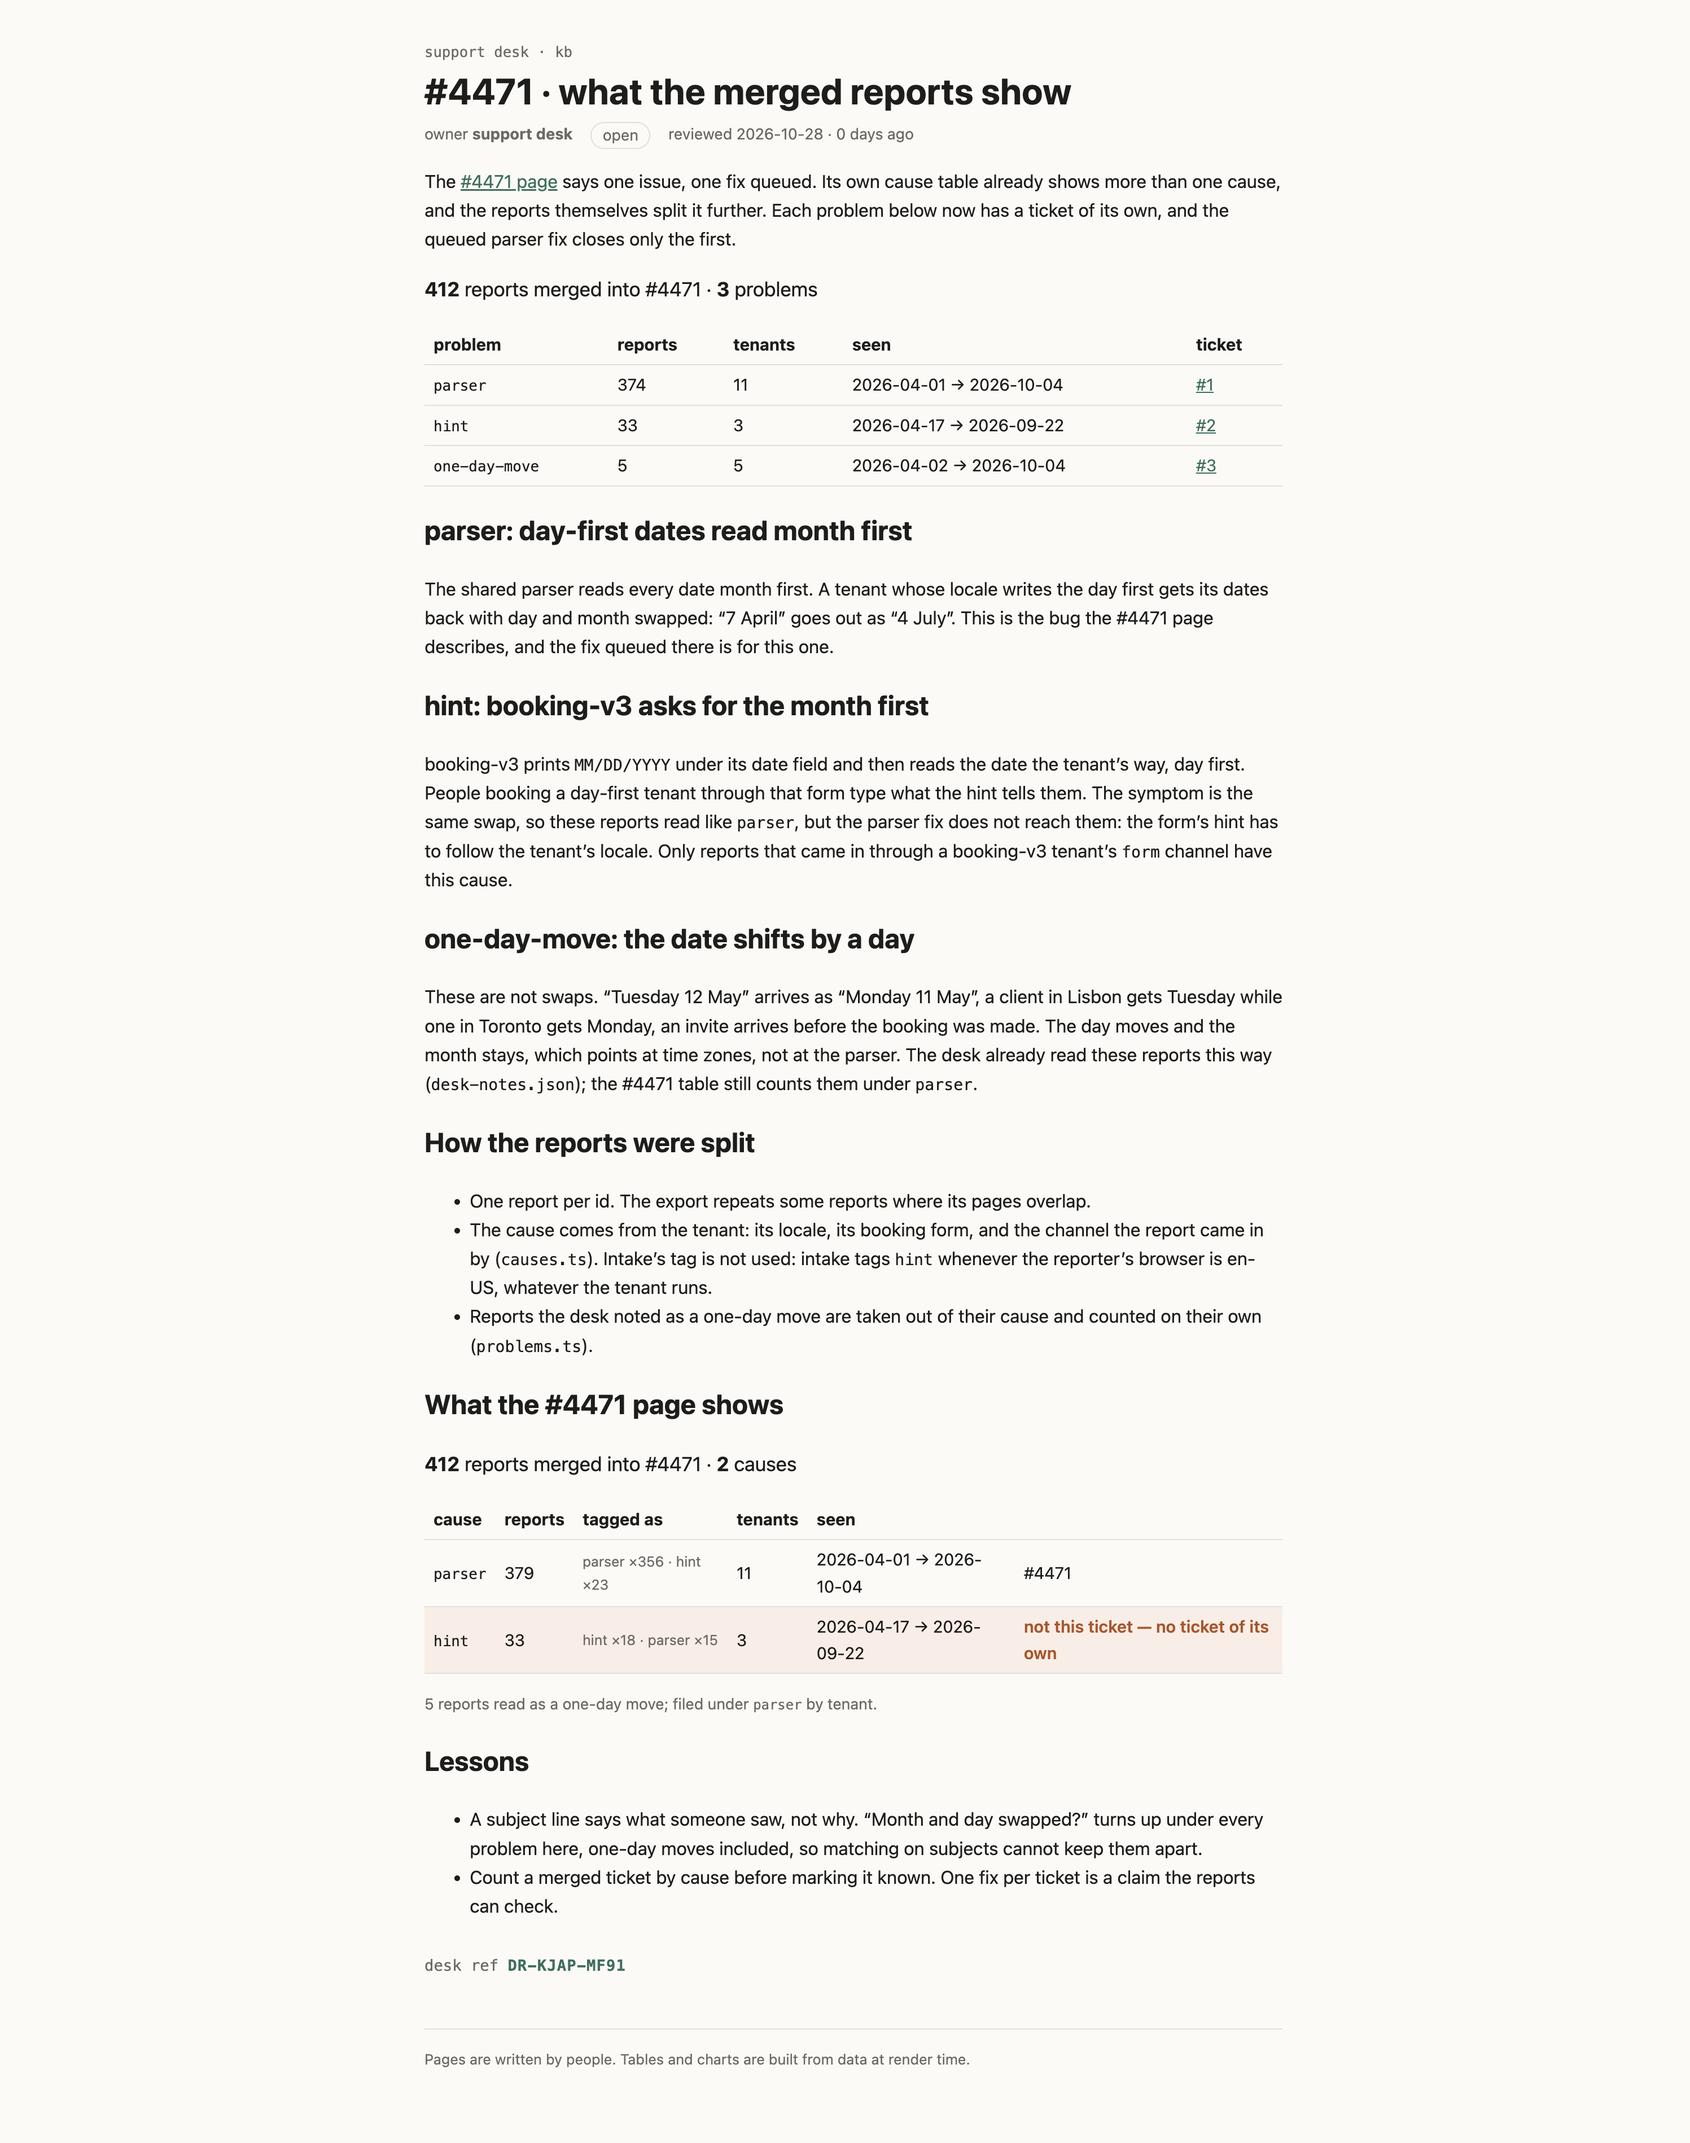
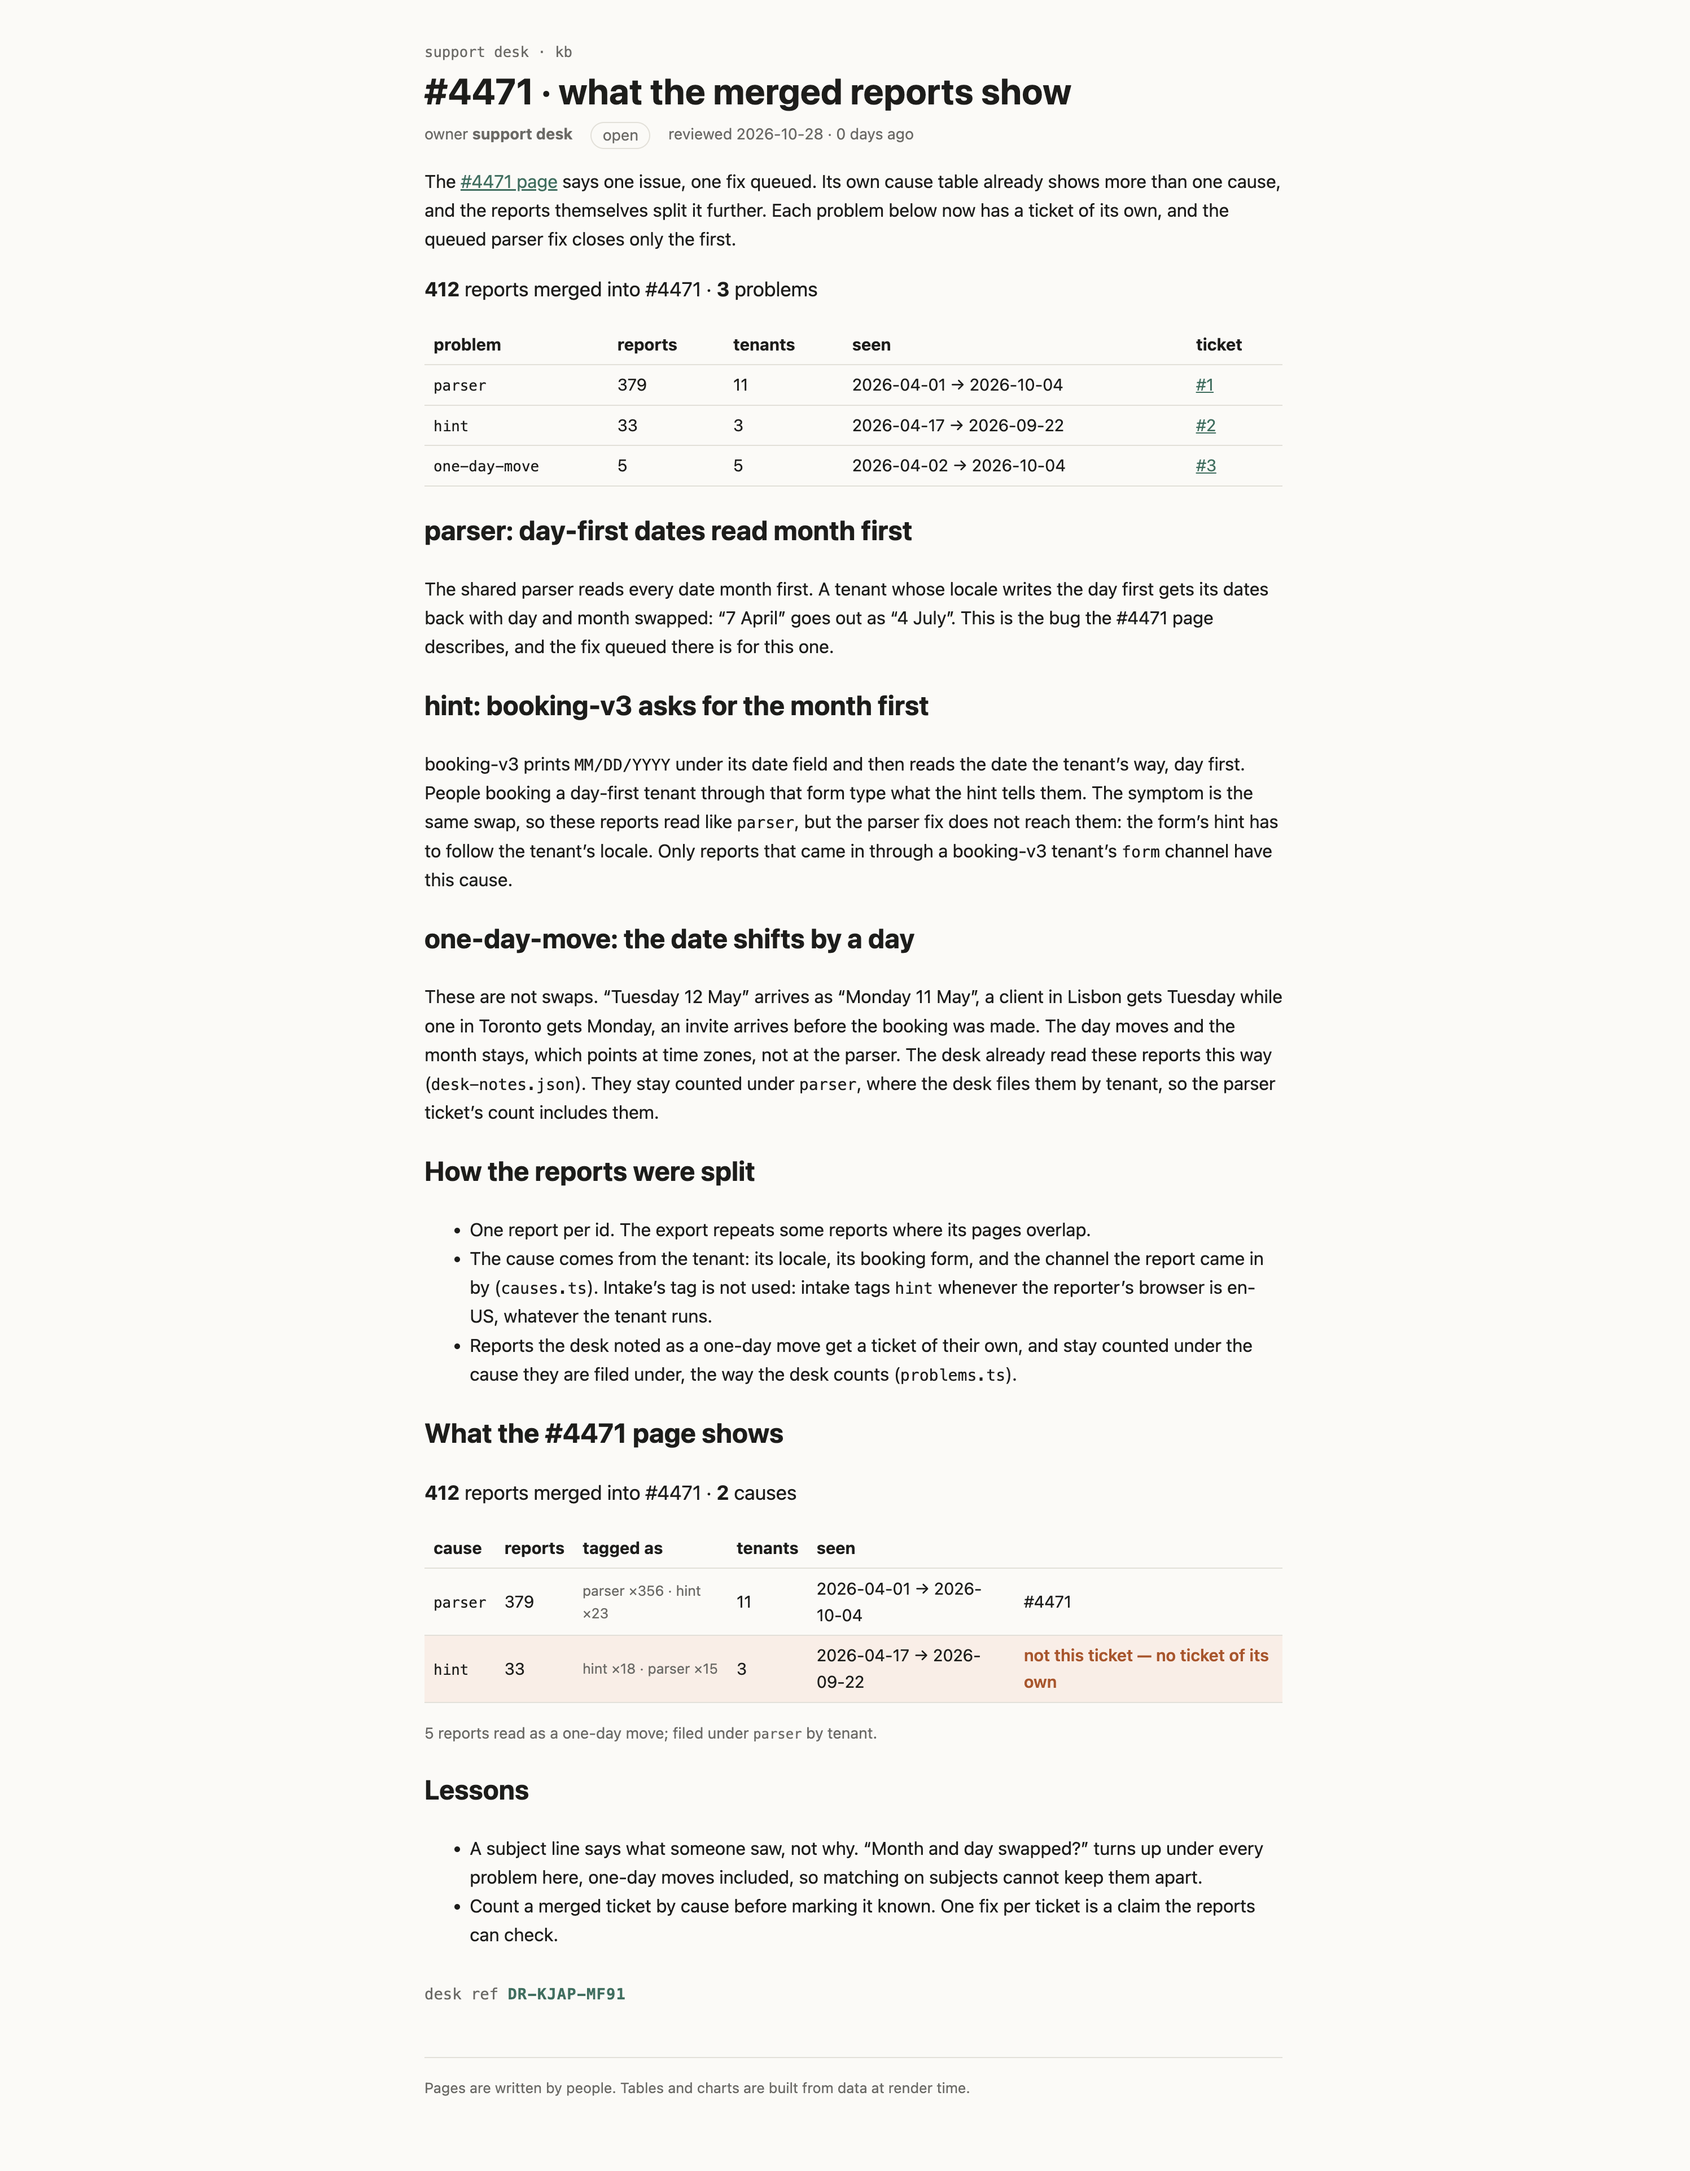
fix(kb): count one-day moves where the desk files them

diff --git a/rendered/4471-problems.html b/rendered/4471-problems.html
@@ -19,7 +19,7 @@
   <body>
     <div style="display: contents"><!--[--><!--[--><!----><!----><div class="kb svelte-60g32v"><header><a class="crumb svelte-60g32v" href="/kb">support desk · kb</a> <h1 class="svelte-60g32v">#4471 · what the merged reports show</h1> <p class="meta svelte-60g32v"><span>owner <b>support desk</b></span> <span class="status open svelte-60g32v">open</span> <span class="svelte-60g32v">reviewed 2026-10-28 · 0 days ago</span></p></header> <!--[!--><!--]--> <main><p>The <a href="/kb/incidents/4471">#4471 page</a> says one issue, one fix queued. Its own cause table already
 shows more than one cause, and the reports themselves split it further. Each problem below now
-has a ticket of its own, and the queued parser fix closes only the first.</p> <p class="sum svelte-1nd8eo5"><strong>412</strong> reports merged into #4471 · <strong>3</strong> problems</p> <table><thead><tr><th>problem</th><th>reports</th><th>tenants</th><th>seen</th><th>ticket</th></tr></thead><tbody><!--[--><tr class="svelte-1nd8eo5"><td class="svelte-1nd8eo5"><code>parser</code></td><td class="svelte-1nd8eo5">374</td><td class="svelte-1nd8eo5">11</td><td class="svelte-1nd8eo5">2026-04-01 → 2026-10-04</td><td class="svelte-1nd8eo5"><!--[--><a href="https://github.com/aleksej-axiology/support-kb/issues/1">#1</a><!--]--></td></tr><tr class="svelte-1nd8eo5"><td class="svelte-1nd8eo5"><code>hint</code></td><td class="svelte-1nd8eo5">33</td><td class="svelte-1nd8eo5">3</td><td class="svelte-1nd8eo5">2026-04-17 → 2026-09-22</td><td class="svelte-1nd8eo5"><!--[--><a href="https://github.com/aleksej-axiology/support-kb/issues/2">#2</a><!--]--></td></tr><tr class="svelte-1nd8eo5"><td class="svelte-1nd8eo5"><code>one-day-move</code></td><td class="svelte-1nd8eo5">5</td><td class="svelte-1nd8eo5">5</td><td class="svelte-1nd8eo5">2026-04-02 → 2026-10-04</td><td class="svelte-1nd8eo5"><!--[--><a href="https://github.com/aleksej-axiology/support-kb/issues/3">#3</a><!--]--></td></tr><!--]--></tbody></table><!----> <h2>parser: day-first dates read month first</h2> <p>The shared parser reads every date month first. A tenant whose locale writes the day first gets
+has a ticket of its own, and the queued parser fix closes only the first.</p> <p class="sum svelte-1nd8eo5"><strong>412</strong> reports merged into #4471 · <strong>3</strong> problems</p> <table><thead><tr><th>problem</th><th>reports</th><th>tenants</th><th>seen</th><th>ticket</th></tr></thead><tbody><!--[--><tr class="svelte-1nd8eo5"><td class="svelte-1nd8eo5"><code>parser</code></td><td class="svelte-1nd8eo5">379</td><td class="svelte-1nd8eo5">11</td><td class="svelte-1nd8eo5">2026-04-01 → 2026-10-04</td><td class="svelte-1nd8eo5"><!--[--><a href="https://github.com/aleksej-axiology/support-kb/issues/1">#1</a><!--]--></td></tr><tr class="svelte-1nd8eo5"><td class="svelte-1nd8eo5"><code>hint</code></td><td class="svelte-1nd8eo5">33</td><td class="svelte-1nd8eo5">3</td><td class="svelte-1nd8eo5">2026-04-17 → 2026-09-22</td><td class="svelte-1nd8eo5"><!--[--><a href="https://github.com/aleksej-axiology/support-kb/issues/2">#2</a><!--]--></td></tr><tr class="svelte-1nd8eo5"><td class="svelte-1nd8eo5"><code>one-day-move</code></td><td class="svelte-1nd8eo5">5</td><td class="svelte-1nd8eo5">5</td><td class="svelte-1nd8eo5">2026-04-02 → 2026-10-04</td><td class="svelte-1nd8eo5"><!--[--><a href="https://github.com/aleksej-axiology/support-kb/issues/3">#3</a><!--]--></td></tr><!--]--></tbody></table><!----> <h2>parser: day-first dates read month first</h2> <p>The shared parser reads every date month first. A tenant whose locale writes the day first gets
 its dates back with day and month swapped: “7 April” goes out as “4 July”. This is the bug the
 #4471 page describes, and the fix queued there is for this one.</p> <h2>hint: booking-v3 asks for the month first</h2> <p>booking-v3 prints <code>MM/DD/YYYY</code> under its date field and then reads the date the tenant’s way, day
 first. People booking a day-first tenant through that form type what the hint tells them. The
@@ -28,10 +28,11 @@ them: the form’s hint has to follow the tenant’s locale. Only reports that c
 booking-v3 tenant’s <code>form</code> channel have this cause.</p> <h2>one-day-move: the date shifts by a day</h2> <p>These are not swaps. “Tuesday 12 May” arrives as “Monday 11 May”, a client in Lisbon gets Tuesday
 while one in Toronto gets Monday, an invite arrives before the booking was made. The day moves and
 the month stays, which points at time zones, not at the parser. The desk already read these
-reports this way (<code>desk-notes.json</code>); the #4471 table still counts them under <code>parser</code>.</p> <h2>How the reports were split</h2> <ul><li>One report per id. The export repeats some reports where its pages overlap.</li> <li>The cause comes from the tenant: its locale, its booking form, and the channel the report came
+reports this way (<code>desk-notes.json</code>). They stay counted under <code>parser</code>, where the desk files them
+by tenant, so the parser ticket’s count includes them.</p> <h2>How the reports were split</h2> <ul><li>One report per id. The export repeats some reports where its pages overlap.</li> <li>The cause comes from the tenant: its locale, its booking form, and the channel the report came
 in by (<code>causes.ts</code>). Intake’s tag is not used: intake tags <code>hint</code> whenever the reporter’s
-browser is en-US, whatever the tenant runs.</li> <li>Reports the desk noted as a one-day move are taken out of their cause and counted on their own
-(<code>problems.ts</code>).</li></ul> <h2>What the #4471 page shows</h2> <p class="sum svelte-5f1c7s"><strong>412</strong> reports merged into #4471 · <strong>2</strong> causes</p> <table><thead><tr><th>cause</th><th>reports</th><th>tagged as</th><th>tenants</th><th>seen</th><th></th></tr></thead><tbody><!--[--><tr class="svelte-5f1c7s"><td class="svelte-5f1c7s"><code>parser</code></td><td class="svelte-5f1c7s">379</td><td class="tags svelte-5f1c7s">parser ×356 · hint ×23</td><td class="svelte-5f1c7s">11</td><td class="svelte-5f1c7s">2026-04-01 → 2026-10-04</td><td class="svelte-5f1c7s">#4471</td></tr><tr class="svelte-5f1c7s wrong"><td class="svelte-5f1c7s"><code>hint</code></td><td class="svelte-5f1c7s">33</td><td class="tags svelte-5f1c7s">hint ×18 · parser ×15</td><td class="svelte-5f1c7s">3</td><td class="svelte-5f1c7s">2026-04-17 → 2026-09-22</td><td class="svelte-5f1c7s">not this ticket — no ticket of its own</td></tr><!--]--></tbody></table> <!--[--><!--[--><p class="note svelte-5f1c7s">5 reports read as a one-day move; filed under <code>parser</code> by tenant.</p><!--]--><!--[!--><!--]--><!--]--><!----> <h2>Lessons</h2> <ul><li>A subject line says what someone saw, not why. “Month and day swapped?” turns up under every
+browser is en-US, whatever the tenant runs.</li> <li>Reports the desk noted as a one-day move get a ticket of their own, and stay counted under the
+cause they are filed under, the way the desk counts (<code>problems.ts</code>).</li></ul> <h2>What the #4471 page shows</h2> <p class="sum svelte-5f1c7s"><strong>412</strong> reports merged into #4471 · <strong>2</strong> causes</p> <table><thead><tr><th>cause</th><th>reports</th><th>tagged as</th><th>tenants</th><th>seen</th><th></th></tr></thead><tbody><!--[--><tr class="svelte-5f1c7s"><td class="svelte-5f1c7s"><code>parser</code></td><td class="svelte-5f1c7s">379</td><td class="tags svelte-5f1c7s">parser ×356 · hint ×23</td><td class="svelte-5f1c7s">11</td><td class="svelte-5f1c7s">2026-04-01 → 2026-10-04</td><td class="svelte-5f1c7s">#4471</td></tr><tr class="svelte-5f1c7s wrong"><td class="svelte-5f1c7s"><code>hint</code></td><td class="svelte-5f1c7s">33</td><td class="tags svelte-5f1c7s">hint ×18 · parser ×15</td><td class="svelte-5f1c7s">3</td><td class="svelte-5f1c7s">2026-04-17 → 2026-09-22</td><td class="svelte-5f1c7s">not this ticket — no ticket of its own</td></tr><!--]--></tbody></table> <!--[--><!--[--><p class="note svelte-5f1c7s">5 reports read as a one-day move; filed under <code>parser</code> by tenant.</p><!--]--><!--[!--><!--]--><!--]--><!----> <h2>Lessons</h2> <ul><li>A subject line says what someone saw, not why. “Month and day swapped?” turns up under every
 problem here, one-day moves included, so matching on subjects cannot keep them apart.</li> <li>Count a merged ticket by cause before marking it known. One fix per ticket is a claim the
 reports can check.</li></ul> <!--[--><p class="stamp svelte-5qojh0">desk ref <b class="svelte-5qojh0">DR-KJAP-MF91</b></p><!--]--><!----><!----></main> <footer class="svelte-60g32v">Pages are written by people. Tables and charts are built from data at render time.</footer></div><!----><!----><!----><!--]--> <!--[!--><!--]--><!--]--></div>
   </body>

diff --git a/src/lib/kb/problems.ts b/src/lib/kb/problems.ts
@@ -1,9 +1,10 @@
-// The problems inside one merged ticket: one per cause, with the reports the desk read as a one-day
-// move (desk-notes.json) taken out of their cause and counted on their own. A one-day move is not a
-// month flip, so neither parser fix nor hint fix ends it.
-import { causeOf, uniqueById, type Report, type Tenant } from '#lib/kb/causes';
+// The problems inside one merged ticket, counted the way the desk counts: every report under its cause,
+// where it is filed (causes.ts), and the reports the desk read as a one-day move (desk-notes.json)
+// counted again as a problem of their own. A one-day move is not a month flip, so neither the parser fix
+// nor the hint fix ends it.
+import { groupByCause, uniqueById, type CauseGroup, type Report, type Tenant } from '#lib/kb/causes';
 
-export type Problem = 'parser' | 'hint' | 'one-day-move' | 'unplaced';
+export type Problem = CauseGroup['cause'] | 'one-day-move';
 
 export type ProblemGroup = {
   problem: Problem;
@@ -13,9 +14,15 @@ export type ProblemGroup = {
   lastSeen: string;
 };
 
-export function problemOf(r: Report, t: Tenant | undefined, oneDayMove: readonly string[]): Problem {
-  if (oneDayMove.includes(r.id)) return 'one-day-move';
-  return causeOf(r, t) ?? 'unplaced';
+function summary(problem: Problem, rs: Report[]): ProblemGroup {
+  const days = rs.map((r) => r.receivedAt.slice(0, 10)).sort();
+  return {
+    problem,
+    reports: rs,
+    tenants: new Set(rs.map((r) => r.tenant)).size,
+    firstSeen: days[0],
+    lastSeen: days[days.length - 1],
+  };
 }
 
 export function groupByProblem(
@@ -24,21 +31,8 @@ export function groupByProblem(
   tenantOf: (r: Report) => Tenant | undefined,
   oneDayMove: readonly string[],
 ): ProblemGroup[] {
-  const byProblem = new Map<Problem, Report[]>();
-  for (const r of uniqueById(reports).filter((r) => r.mergedInto === ticket)) {
-    const p = problemOf(r, tenantOf(r), oneDayMove);
-    byProblem.set(p, [...(byProblem.get(p) ?? []), r]);
-  }
-  return [...byProblem.entries()]
-    .map(([problem, rs]) => {
-      const days = rs.map((r) => r.receivedAt.slice(0, 10)).sort();
-      return {
-        problem,
-        reports: rs,
-        tenants: new Set(rs.map((r) => r.tenant)).size,
-        firstSeen: days[0],
-        lastSeen: days[days.length - 1],
-      };
-    })
-    .sort((a, b) => b.reports.length - a.reports.length);
+  const merged = uniqueById(reports).filter((r) => r.mergedInto === ticket);
+  const groups = groupByCause(merged, tenantOf).map((g) => summary(g.cause, g.reports));
+  const moved = merged.filter((r) => oneDayMove.includes(r.id));
+  return moved.length ? [...groups, summary('one-day-move', moved)] : groups;
 }
